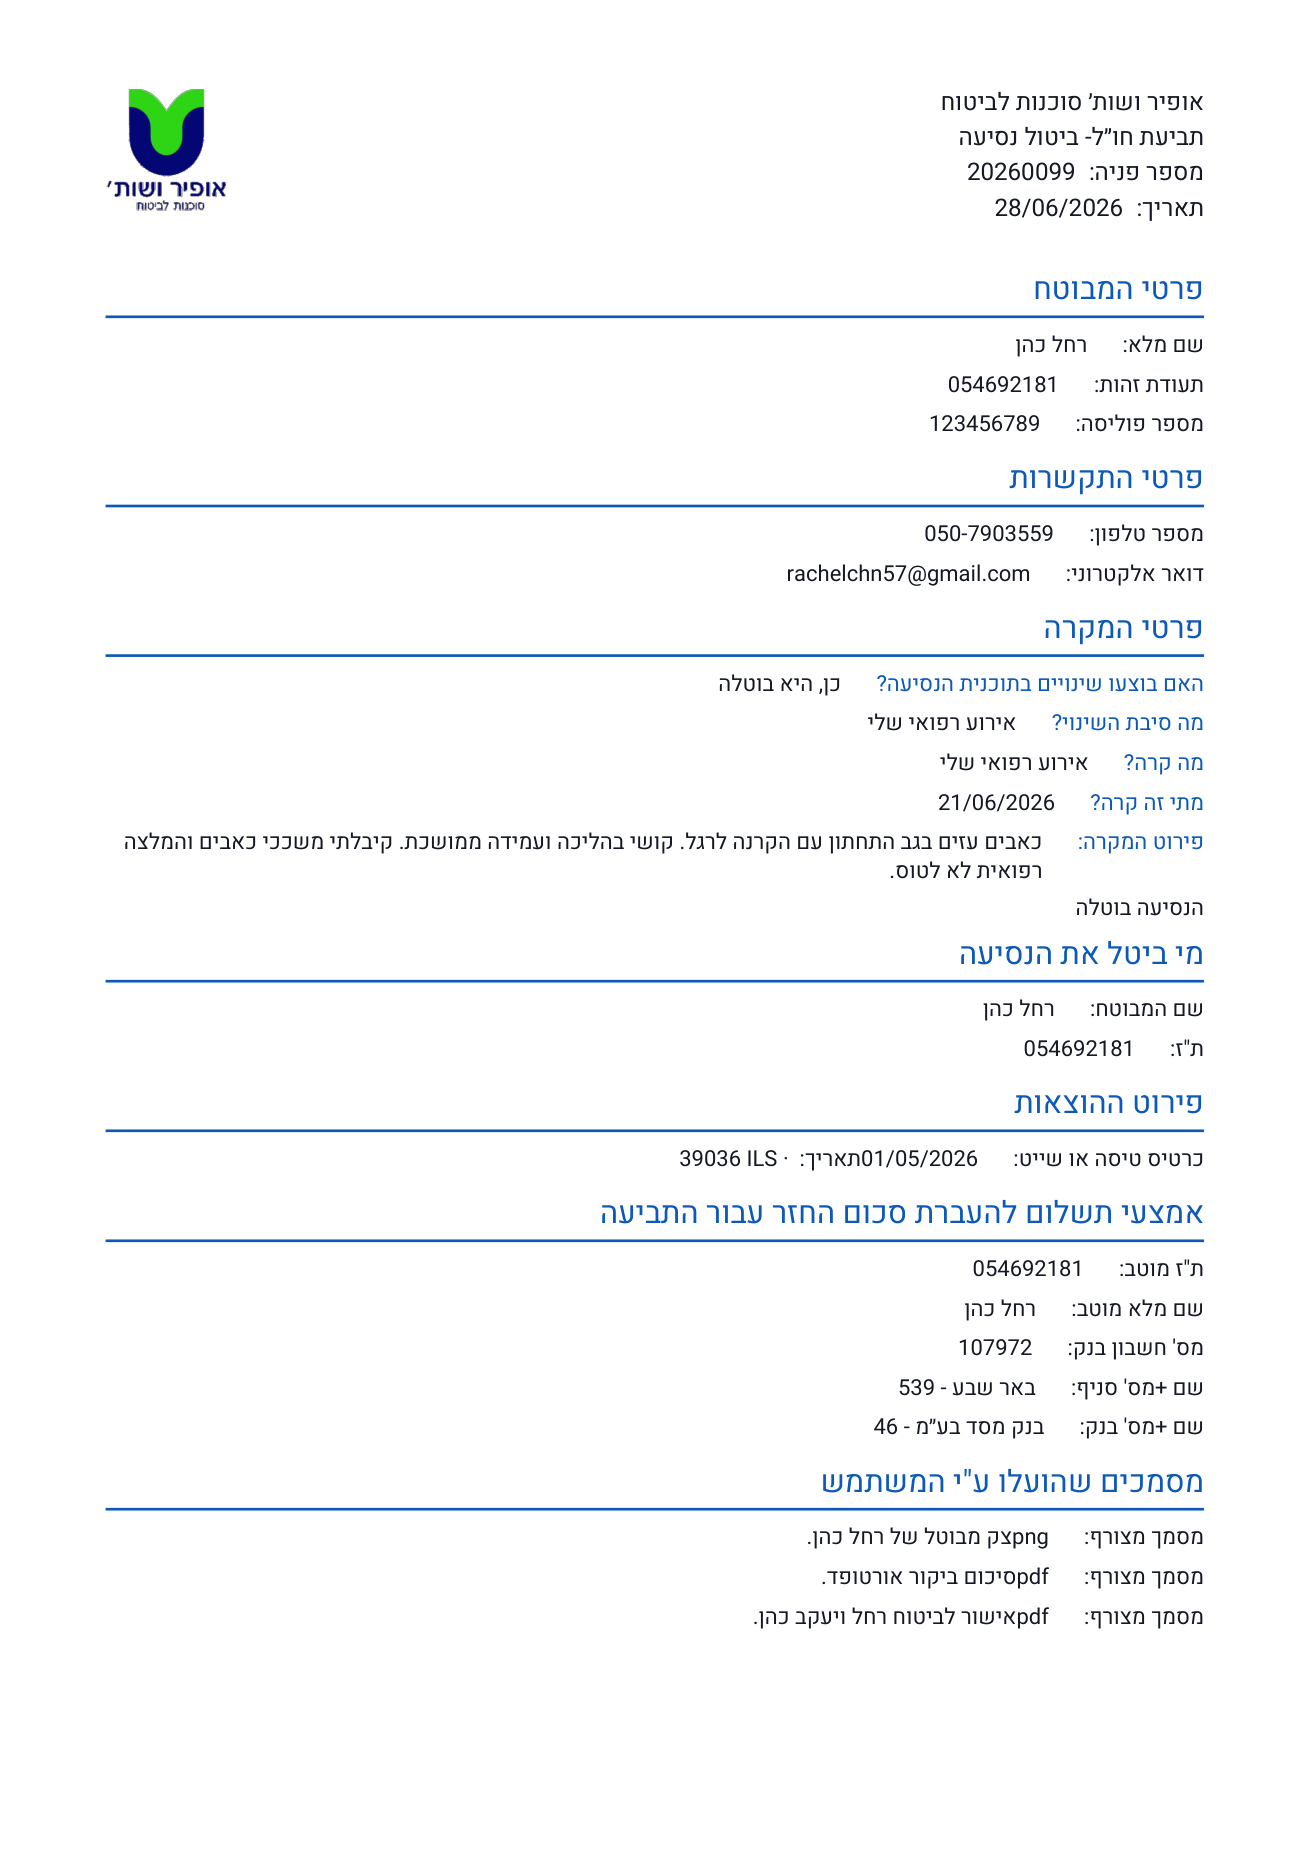
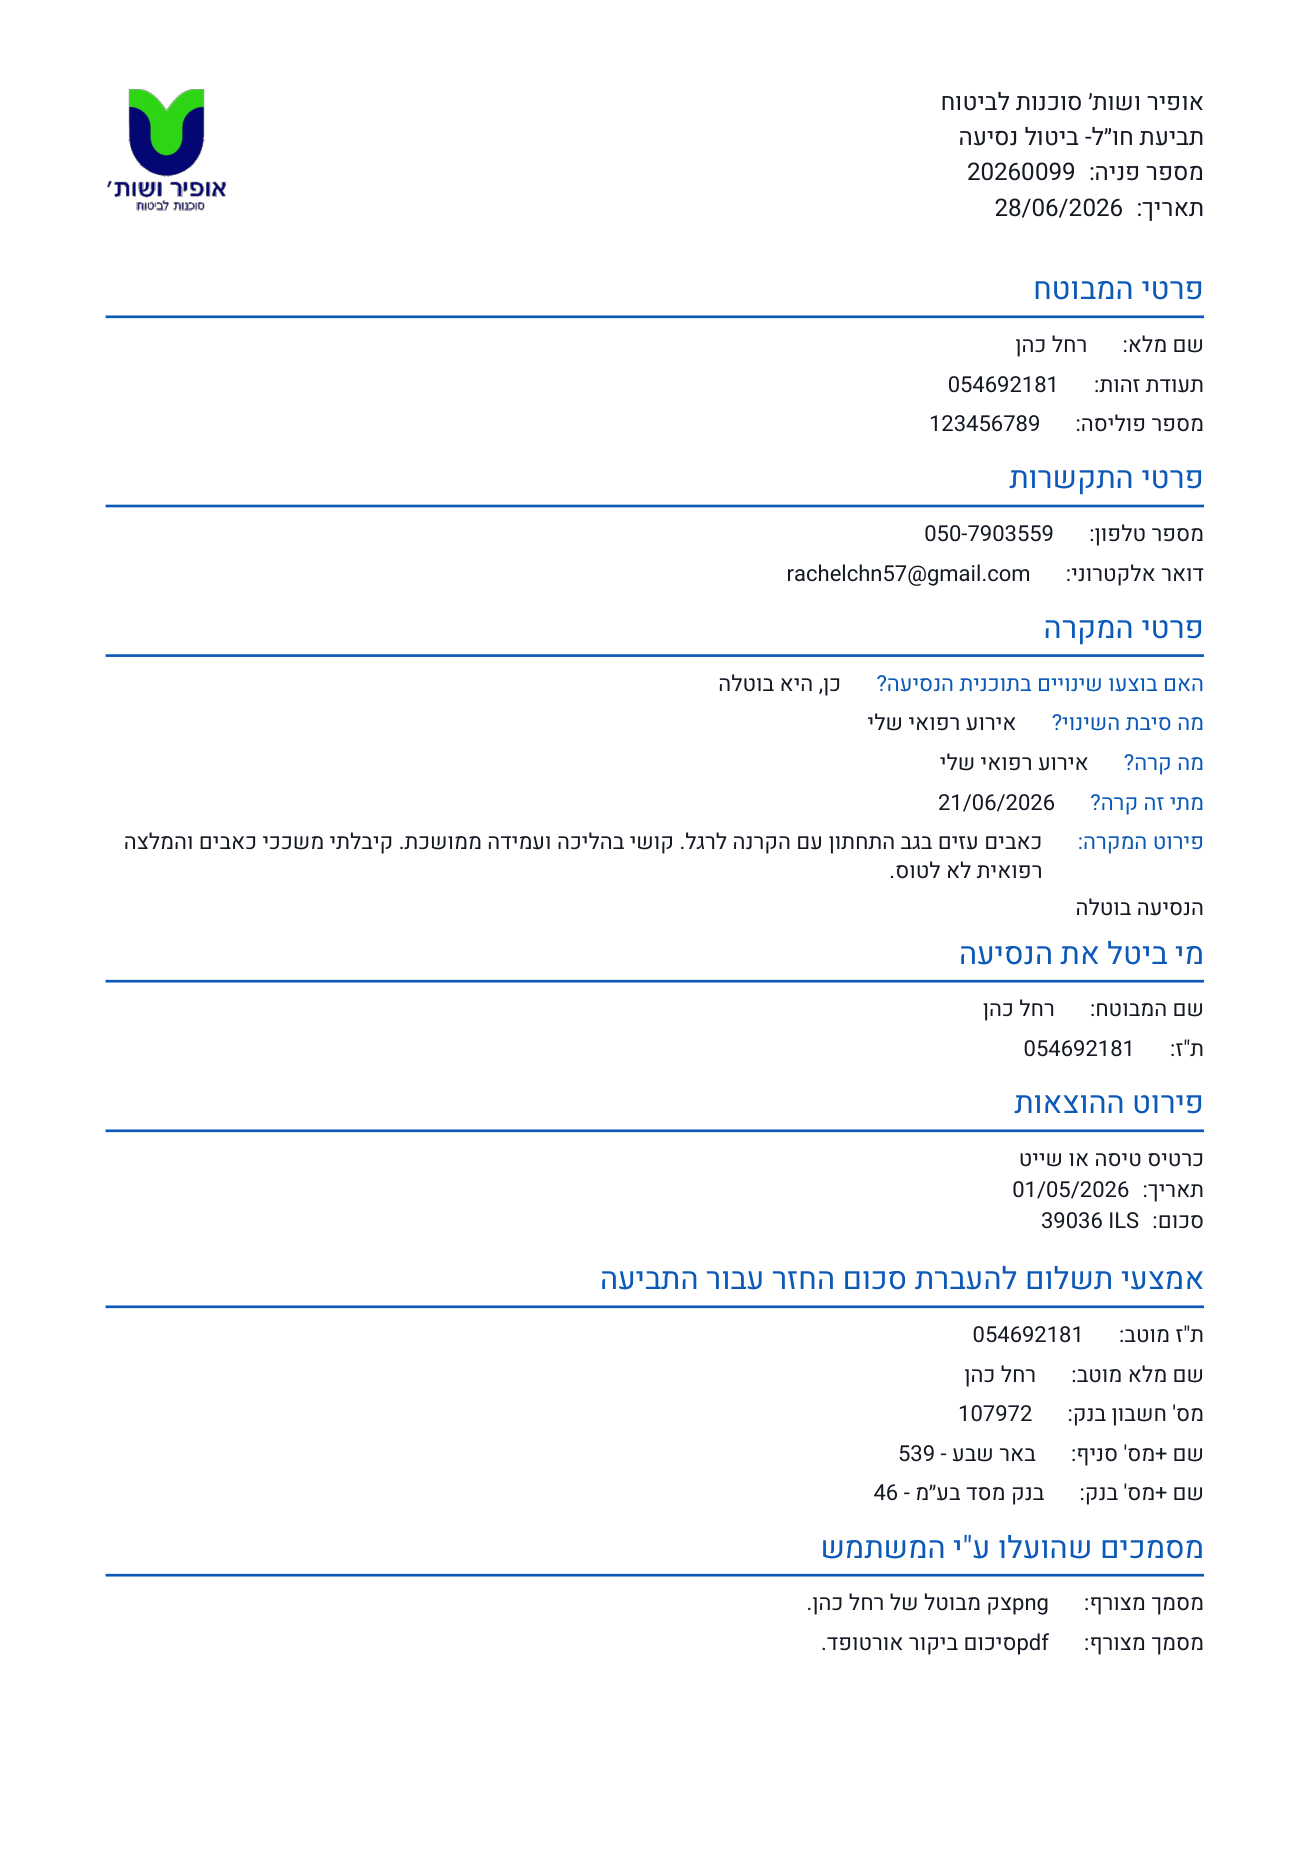
fix(claim): render expense date and amount as separate RTL-safe lines

Changed region(s): [[0.458, 0.6152, 0.916, 0.8921]]

diff --git a/supabase/functions/send-contact-email/claimPdf.ts b/supabase/functions/send-contact-email/claimPdf.ts
@@ -294,19 +294,24 @@ function buildIncidentRows(claim: Record<string, unknown>): Kv[] {
   return rows;
 }
 
-function buildExpenseRows(claim: Record<string, unknown>): Kv[] {
-  const rows: Kv[] = [];
+function parseExpenses(claim: Record<string, unknown>): Array<{ type: string; amount: string; date: string }> {
+  const out: Array<{ type: string; amount: string; date: string }> = [];
   if (Array.isArray(claim.expenses)) {
     for (const item of claim.expenses) {
       if (!item || typeof item !== "object") continue;
       const row = item as Record<string, unknown>;
-      const label = String(row.type || "הוצאה").trim() || "הוצאה";
+      const type = String(row.type || "הוצאה").trim() || "הוצאה";
       const amount = String(row.amount || "").trim();
       const date = formatClaimDateDisplay(row.date);
-      const value = [amount, date ? `תאריך: ${date}` : ""].filter(Boolean).join(" · ");
-      if (value) rows.push({ label, value });
+      if (type || amount || date) out.push({ type, amount, date });
     }
   }
+  return out;
+}
+
+function buildExpenseRows(claim: Record<string, unknown>): Kv[] {
+  const rows: Kv[] = [];
+  // Baggage item lines (purchase price) — expenses are drawn separately.
   if (Array.isArray(claim.baggageItems)) {
     for (const item of claim.baggageItems) {
       if (!item || typeof item !== "object") continue;
@@ -317,7 +322,7 @@ function buildExpenseRows(claim: Record<string, unknown>): Kv[] {
       rows.push({ label, value: value || "—" });
     }
   }
-  if (!rows.length) {
+  if (!rows.length && !parseExpenses(claim).length) {
     const total = String(claim.totalClaimed || claim.amount || "").trim();
     if (total) rows.push({ label: "סכום נתבע", value: total });
   }
@@ -577,11 +582,28 @@ export async function buildClaimPdfBase64(
       y -= 8;
     }
 
-    // Expenses
+    // Expenses — draw type / date / amount as separate RTL-safe lines
+    const expenses = parseExpenses(claim);
     const expenseRows = buildExpenseRows(claim);
-    if (expenseRows.length) {
+    if (expenses.length || expenseRows.length) {
       sectionTitle("פירוט ההוצאות");
-      drawKvRows(expenseRows);
+      for (const exp of expenses) {
+        ensureSpace(48);
+        drawRight(exp.type, 10, y, BLACK);
+        y -= 14;
+        if (exp.date) {
+          drawLabelValue("תאריך", exp.date, 10, y, BLACK);
+          y -= 14;
+        }
+        if (exp.amount) {
+          drawLabelValue("סכום", exp.amount, 10, y, BLACK);
+          y -= 14;
+        }
+        y -= 6;
+      }
+      if (expenseRows.length) {
+        drawKvRows(expenseRows);
+      }
       if (String(claim.country || "").trim() && String(claim.claimType || "") !== "trip_cancel") {
         drawKvRows([kv("ארץ יעד / מיקום", claim.country)!].filter(Boolean) as Kv[]);
       }
